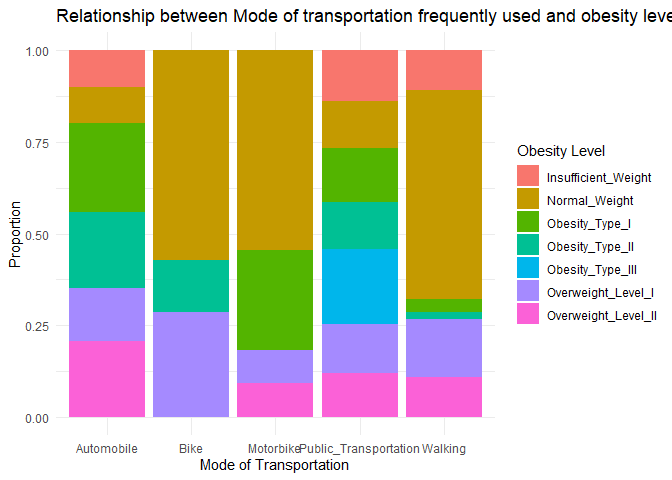
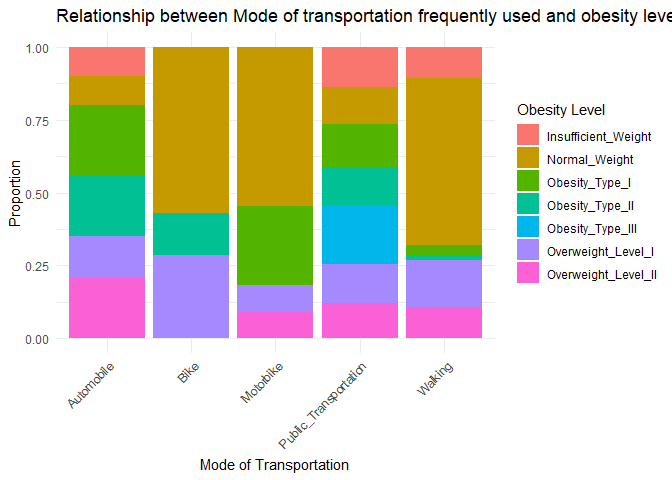
EDA updates

diff --git a/Exploratory Data Analysis/EDA.md b/Exploratory Data Analysis/EDA.md
@@ -188,14 +188,14 @@ unzip(temp_zip, exdir = unzip_dir)
 list.files(unzip_dir)
 ```
 
-    ## [1] "file569827956a8"                          
-    ## [2] "file56985e1e1ff7"                         
-    ## [3] "file569863d24d24"                         
-    ## [4] "file56986dbb4b43"                         
-    ## [5] "file56986ea23fe8.zip"                     
-    ## [6] "file56987a44586b"                         
+    ## [1] "file64742255f1a"                          
+    ## [2] "file64745b3c88c"                          
+    ## [3] "file647470145aa6"                         
+    ## [4] "file647472183e04.zip"                     
+    ## [5] "file647475a041ae"                         
+    ## [6] "file6474b6b39c6"                          
     ## [7] "ObesityDataSet_raw_and_data_sinthetic.csv"
-    ## [8] "rgl56982d497b9d"
+    ## [8] "rgl64742b20436"
 
 ``` r
 file_path <- file.path(unzip_dir, "ObesityDataSet_raw_and_data_sinthetic.csv")
@@ -346,28 +346,59 @@ ggplot(obesity, aes(x = MTRANS, fill =NObeyesdad)) +
        title = "Relationship between Mode of transportation frequently used and obesity level", 
        x = "Mode of Transportation", 
        y = "Proportion") +
-  theme_minimal() 
+  theme_minimal() + 
+  theme(axis.text.x = element_text(angle = 45, hjust = 1))
 ```
 
 ![](EDA_files/figure-gfm/unnamed-chunk-8-5.png)<!-- -->
 
 ``` r
-  #theme(axis.text.x = element_text(angle = 45, hjust = 1))
-```
-
-``` r
 colnames_predictors=c("Gender","family_history_with_overweight","FAVC","FCVC","CAEC","SMOKE","SCC","CALC","MTRANS")
 
-plots<-list()
-for (cat_var in colnames_predictors) {
-  plots[[cat_var]]<-ggplot(obesity, aes_string(x=cat_var,fill=obesity$NObeyesdad)) +
+
+par(mfrow = c(2, 2))
+ggplot(obesity, aes(x = factor(NObeyesdad, levels = c("Insufficient_Weight", "Normal_Weight", "Overweight_Level_I", "Overweight_Level_II","Obesity_Type_I","Obesity_Type_II","Obesity_Type_III")), y = Age, fill = NObeyesdad)) +
+  geom_boxplot() +
+  theme_minimal() +
+  theme(legend.position="none",axis.text.x = element_text(angle =45, hjust = 1)) +
+  labs(fill='Obesity Level', x = "Obesity Category", y = "Age")
+```
+
+![](EDA_files/figure-gfm/unnamed-chunk-9-1.png)<!-- -->
+
+``` r
+ggplot(obesity, aes(x = factor(NObeyesdad, levels = c("Insufficient_Weight", "Normal_Weight", "Overweight_Level_I", "Overweight_Level_II","Obesity_Type_I","Obesity_Type_II","Obesity_Type_III")), y = Height, fill = NObeyesdad)) +
+  geom_boxplot() +
+  theme_minimal() +
+  theme(legend.position="none",axis.text.x = element_text(angle =45, hjust = 1)) +
+  labs(fill='Obesity Level', x = "Obesity Category", y = "Height")
+```
+
+![](EDA_files/figure-gfm/unnamed-chunk-9-2.png)<!-- -->
+
+``` r
+ggplot(obesity, aes(x = MTRANS, fill =NObeyesdad)) +
+  geom_bar(position = "fill") +  # "fill" makes proportions (100% stacked)
+  labs(fill='Obesity Level',
+       #title = "Relationship between Mode of transportation frequently used and obesity level", 
+       x = "Mode of Transportation", 
+       y = "Proportion") +
+  theme_minimal() + 
+  theme(axis.text.x = element_text(angle = 45, hjust = 1))
+```
+
+![](EDA_files/figure-gfm/unnamed-chunk-9-3.png)<!-- -->
+
+``` r
+ggplot(obesity, aes_string(x=obesity$FAF,fill=obesity$NObeyesdad)) +
     geom_bar(position="fill") +
     scale_fill_brewer(palette="Set2") +
-    labs(x=cat_var, y="NObeyedad") + 
+    labs(fill="Obesity Level",
+         #title="Relationship between physical activity and obesity",
+         x="Frequency of Physical Activity", y="Obesity Levels") + 
+    scale_x_discrete(labels=c("0"="Never","1"="1 to 2 days","2"="2 to 4 days","3"="4 to 5 days")) +
     theme_minimal() +
-    theme(legend.position="none",axis.text.x = element_text(angle = 45, hjust = 1))
-  
-}
+    theme(axis.text.x = element_text(angle = 45, hjust = 1))
 ```
 
     ## Warning: `aes_string()` was deprecated in ggplot2 3.0.0.
@@ -377,13 +408,11 @@ for (cat_var in colnames_predictors) {
     ## Call `lifecycle::last_lifecycle_warnings()` to see where this warning was
     ## generated.
 
-``` r
-do.call(grid.arrange, c(plots, ncol = 2)) 
-```
-
-![](EDA_files/figure-gfm/unnamed-chunk-9-1.png)<!-- -->
+![](EDA_files/figure-gfm/unnamed-chunk-9-4.png)<!-- -->
 
 ``` r
+#do.call(grid.arrange, c(plots, ncol = 2)) 
+
 #title("Relationship between obesity level and different categorical feature variables")
 ```
 
